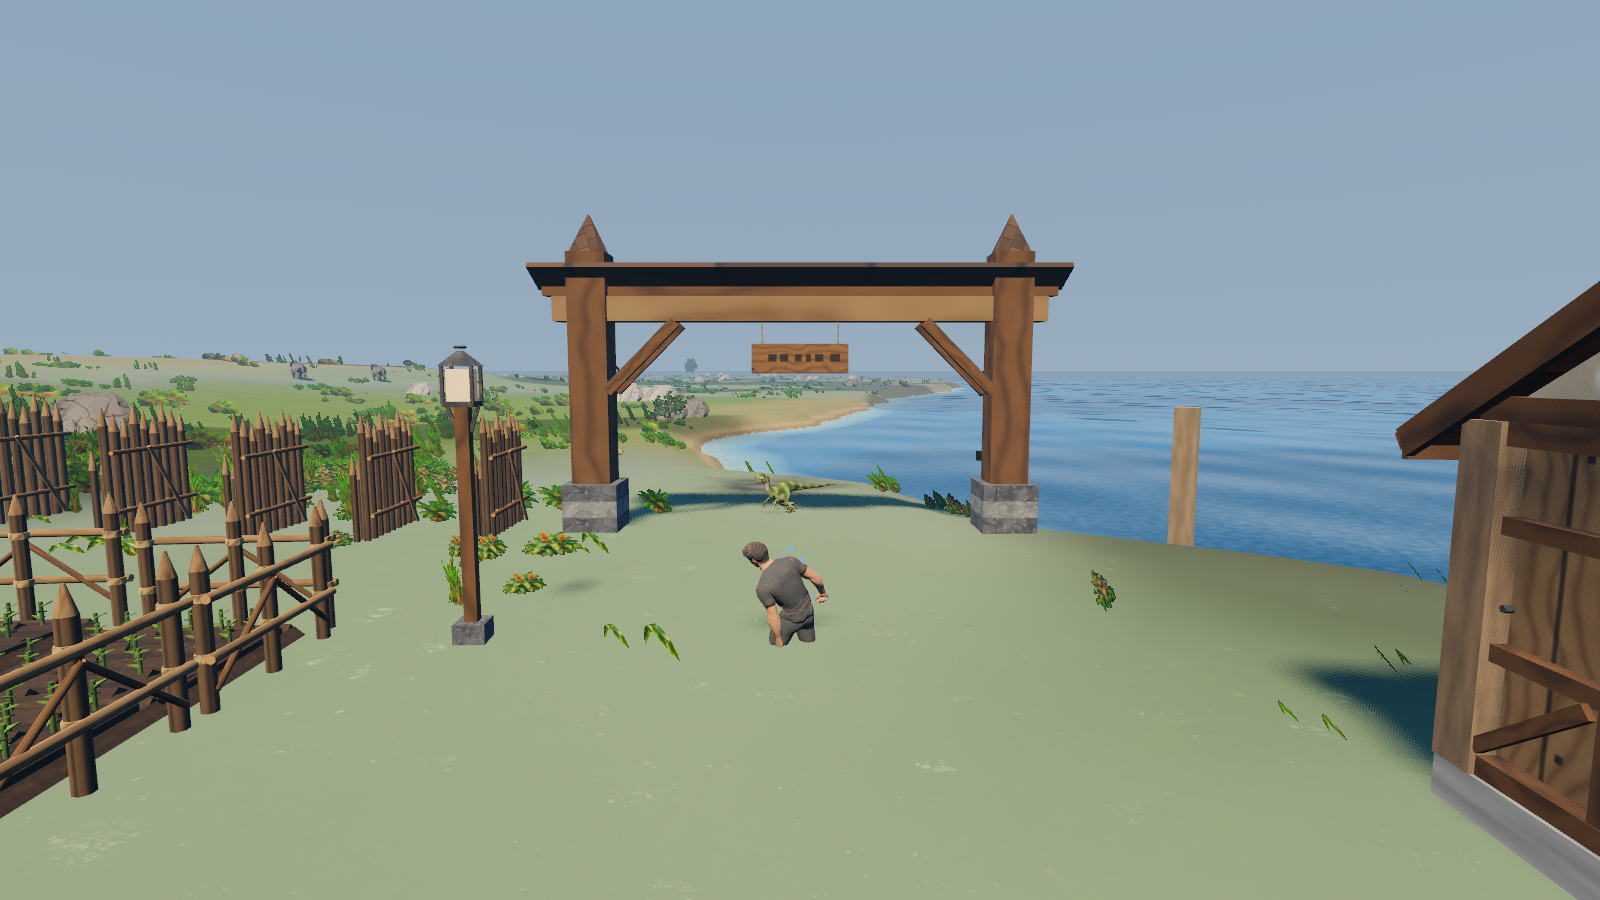
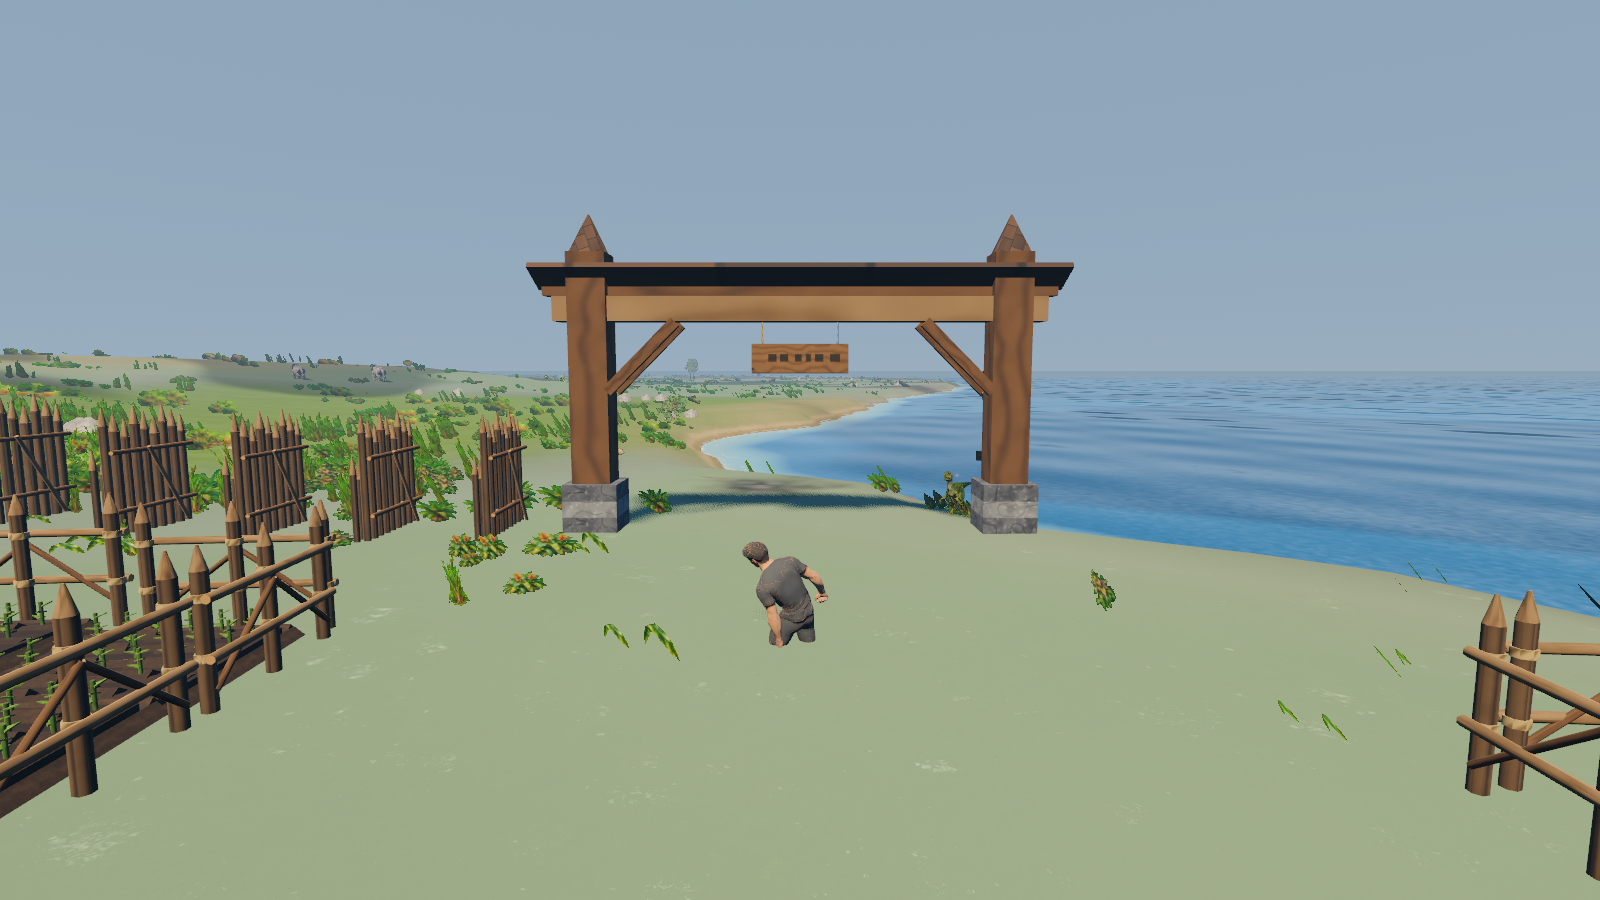
TOWNPOLISH round 6 shots and report

diff --git a/docs/orchestration/reports/claude-townpolish.md b/docs/orchestration/reports/claude-townpolish.md
@@ -1,0 +1,88 @@
+# claude-townpolish: the tutorial town, polished in a pixels loop
+
+Branch `claude/mmo-townpolish` (pushed, not merged), from `origin/claude/mmo-overhaul`, with canon
+48f132d3 and NORTHUP (north-up camera) merged. Six capture rounds, each judged by eye, defects listed
+in `docs/orchestration/reports/townpolish/round-N/defects.md`.
+
+Scope: the whole town except the guild/faction hall and its plaza (claude/mmo-factions). `_guild_hall`
+and `_pit_shelter` are untouched, but the hall is built by the shared `house()`, so it now gets a
+town-kit roof (`town_roof_*_10x8`) like every other house.
+
+## How the shots are made
+`game/scripts/dev/townpolish_shots.gd`: a fresh new game (`--new-game --occupation=soldier`,
+`--weather=clear`), windowed off-screen at `--position 6000,3000`, self-quitting. It aims at real lots
+(the lot nearest each district's centre, plus a second one further out), and shoots the game camera
+(default and zoomed out), street level with the survivor for scale, every gate and an overview, by day
+and by night, at 1600x900 and 844x390 (`--quick` = game camera only). Debug flags: `--only=<name>`,
+`--hide=<runtime child>`, `--spot=x,z`.
+
+```
+Godot --path game --position 6000,3000 --resolution 1600x900 --script res://scripts/dev/townpolish_shots.gd \
+  -- --new-game --occupation=soldier --weather=clear --out=<dir> [--quick]
+```
+
+## What changed
+**Blender town kit** (`tools/blender/structures/townkit.py`, headless `build.py`, sheet `townkit_sheet.py`):
+- 24 whole roofs `town_roof_<thatch|shingle|slate|tile>_<LxS>`. Each has lapped courses, eave fascia, barge boards, a ridge roll or cap, and closed gable ends with a vent or attic window. They are sized to the house plan, so they always sit on the walls.
+- `town_chimney`, `town_lamp`, `town_gate`, `town_stall`, `town_awning`, `town_woodpile`, `town_flowerbox`, `town_cart`.
+- Two new atlas tiles, `roof_tile` and `plaster`, appended. Existing tiles are unchanged.
+
+**town_dress.gd**:
+- Props and houses show at the game camera. The visibility ranges were 110 m and 220 m, but the camera stands 186-240 m back. They now come from `IsoCamera.cull_range`.
+- Houses use the kit roofs. The blue floating gable triangles and the noise "thatch" are gone. Doors hang in their doorways.
+- Windows have warm glass that lights after dusk. Lamps and stalls have glowing glass and a halo. One shared material follows the clock, with no real lights added.
+- Fixtures: awnings, flower boxes, woodpiles and chimneys.
+- Stalls: a kit frame, a striped canvas and a lantern.
+- Workshops: kit roofs and darker floors.
+- Gates: one kit gate on the avenue axis, never half in water.
+- Fields and gardens: planted 4x3, each bed seated on its own ground.
+- Yard clutter fills gaps: carts, woodpiles, barrels, straw, wells and troughs.
+- Ground: inside the wall, the tall reeds and ferns go and about a third of the grass stays. Road tiles between cross-sections are now cleared too.
+- Pathing: the t_tutorial bot wedged in pinches the new layout made. Gate towers now mark every tile they cover, and wicket posts no longer stand beside a gate. Lamps keep 2 m clear of walls, and clutter stays out of the router grid.
+- Chunks are 120 m (was 80 m), which keeps the batch count in budget.
+
+## Before / after (round-1 vs round-6, same folder names)
+| What | Before | After |
+|---|---|---|
+| Homes, game camera | round-1/homes_game_day_1600x900.png | round-6/homes_game_day_1600x900.png |
+| Market | round-1/market_game_day_1600x900.png | round-6/market_game_day_1600x900.png |
+| Farms | round-1/farms_wide_day_1600x900.png | round-6/farms_wide_day_1600x900.png |
+| Gate | round-1/gate_144_day_1600x900.png | round-6/gate_144_day_1600x900.png |
+| Night | round-1/pens_game_night_1600x900.png | round-6/pens_game_night_1600x900.png |
+| Street level | round-1/homes_street_ring_day_1600x900.png | round-6/homes_street_day_1600x900.png |
+| Overview | round-1/overview_day_1600x900.png | round-6/overview_day_1600x900.png |
+| Phone | (none in round 1) | round-6/*_844x390.png |
+
+Round 1 used angle-based aims, and some of its shots look at the sea. From round 2 on, every shot is
+aimed at a lot.
+
+## Gates (merged tree)
+| Gate | Result |
+|---|---|
+| t_tutorial (own HOME, TEST_TIMEOUT 1200) | PASS (449 s); also 2/2 PASS run in parallel before the last canon merge |
+| t_tutguide | PASS |
+| t_perfgates | PASS: tutorial scene_nodes 5,885 (cap 9,000), ticking 29 |
+| t_islandgen | PASS |
+| run_all | `[tests] PASS` |
+| `tools/smoke.sh --no-import` | SMOKE PASS |
+
+Town numbers: 49 houses, 13 stalls, 4 workshops, 8 fields, 4 pens, 24 lamps, 169 MultiMeshes,
+2,709 instances. The town builds in about 550 ms.
+
+## What remains (not ship-blocking)
+- Some open grass between homes. A tree prop would help; the tutorial's tree cards are harvest nodes.
+- Lamps dropped from 41 to 24. The ones that would have made a pinch are skipped.
+- A road strip breaks on a wet or steep point and the terrain shows through (round-6/workshops_wide_day).
+- Fence modules show double posts at the joins.
+- **Other packages:**
+  - Occlusion dithers houses beside the survivor, not only in front of him.
+  - The survivor sits knee-deep on slopes after a teleport (player ground snap).
+  - While I chased the reeds, I suspected physics interpolation was keeping cleared cards drawn. That turned out to be wrong: the reeds were the tall share of the third I kept. TownDress still resets interpolation on the cards it clears, as a harmless guard.
+
+## Assumptions
+Every kit size, pitch, overhang and density here is `# ASSUMPTION` (TT1 family): roof pitches (thatch
+0.9, others 0.62), the clutter rate, one third of the grass kept, the 2 m lamp clearance and the 8 m
+gateway band.
+
+## Credits
+None spent (Blender only, no Tripo or Meshy).

diff --git a/docs/orchestration/reports/townpolish/round-6/defects.md b/docs/orchestration/reports/townpolish/round-6/defects.md
@@ -1,0 +1,12 @@
+# Round 6 (final; canon 48f132d3 merged, north-up camera)
+
+Fixed since round 5: the t_tutorial bot no longer wedges in town (wickets restored, no wicket post
+beside a gate tower, gate towers block every tile they cover, lamps keep 2 m off walls and posts,
+clutter stays out of the router grid). No ship-blocking defect found.
+
+| # | Note (not ship-blocking) | Where seen |
+|---|---|---|
+| R6-1 | A pale bite in a ring road where the road strip breaks on a wet/steep point (the terrain shows through). | workshops_wide_day (bottom centre) |
+| R6-2 | Lamps 41 -> 24: lamps that would stand in a pinch beside a house are skipped (t_tutorial needs >= 20). | build line |
+| R6-3 | Plain grass between some homes (see round 5 R5-1). | homes_* |
+| R6-4 | Occlusion dither and the survivor's slope snap after a teleport (other packages; see round 5). | homes_wide_day |
